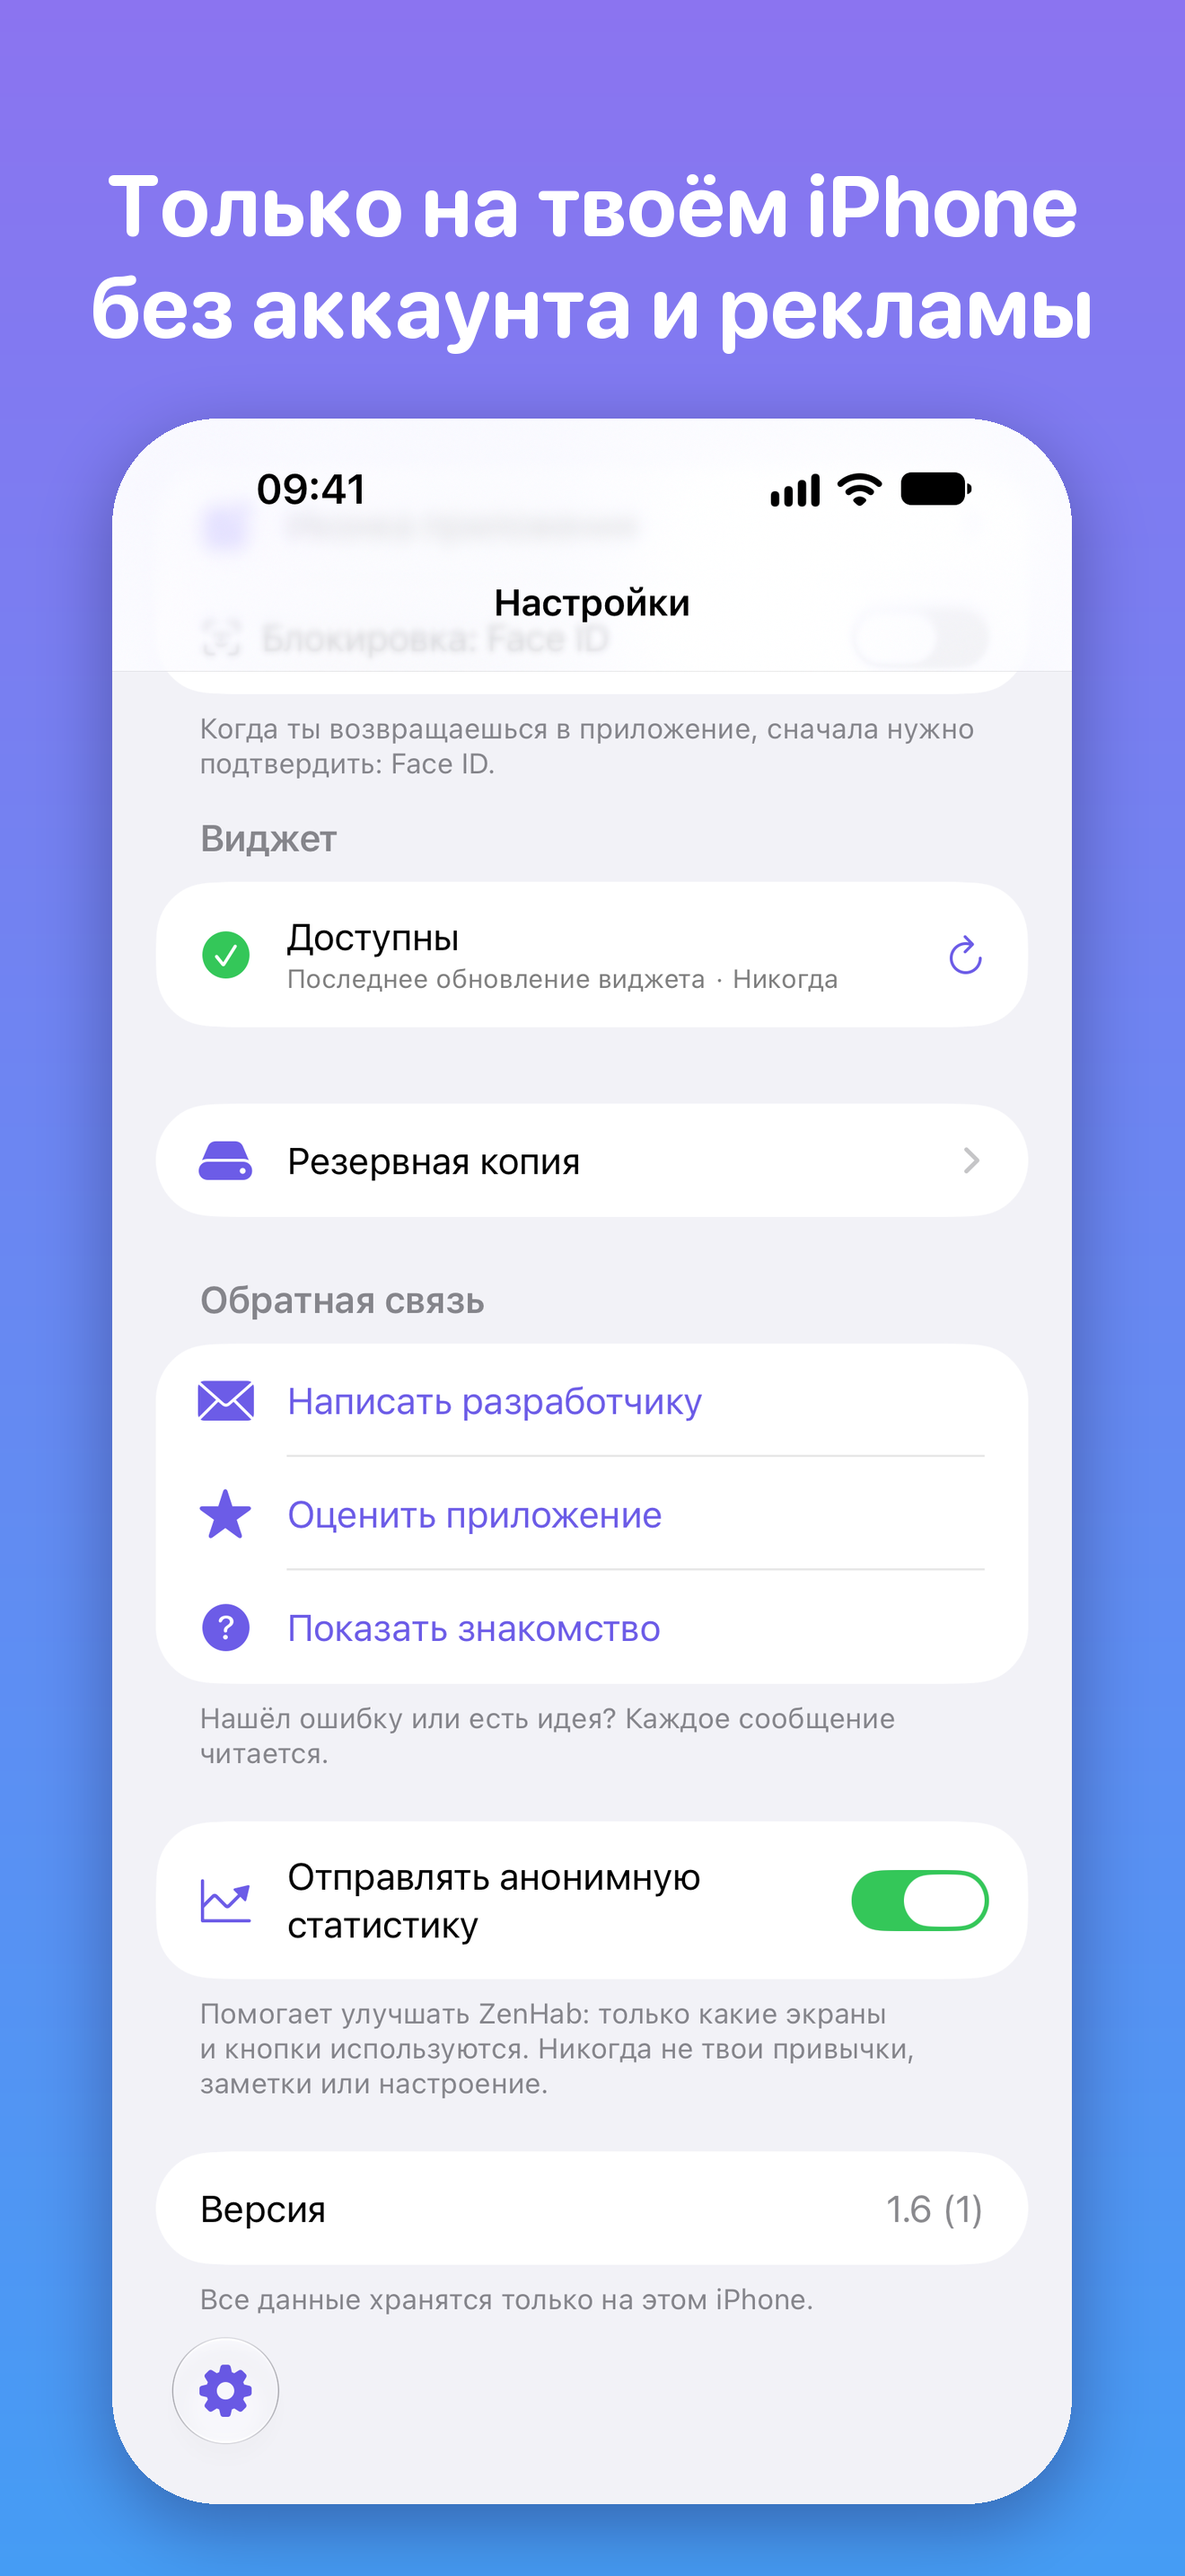
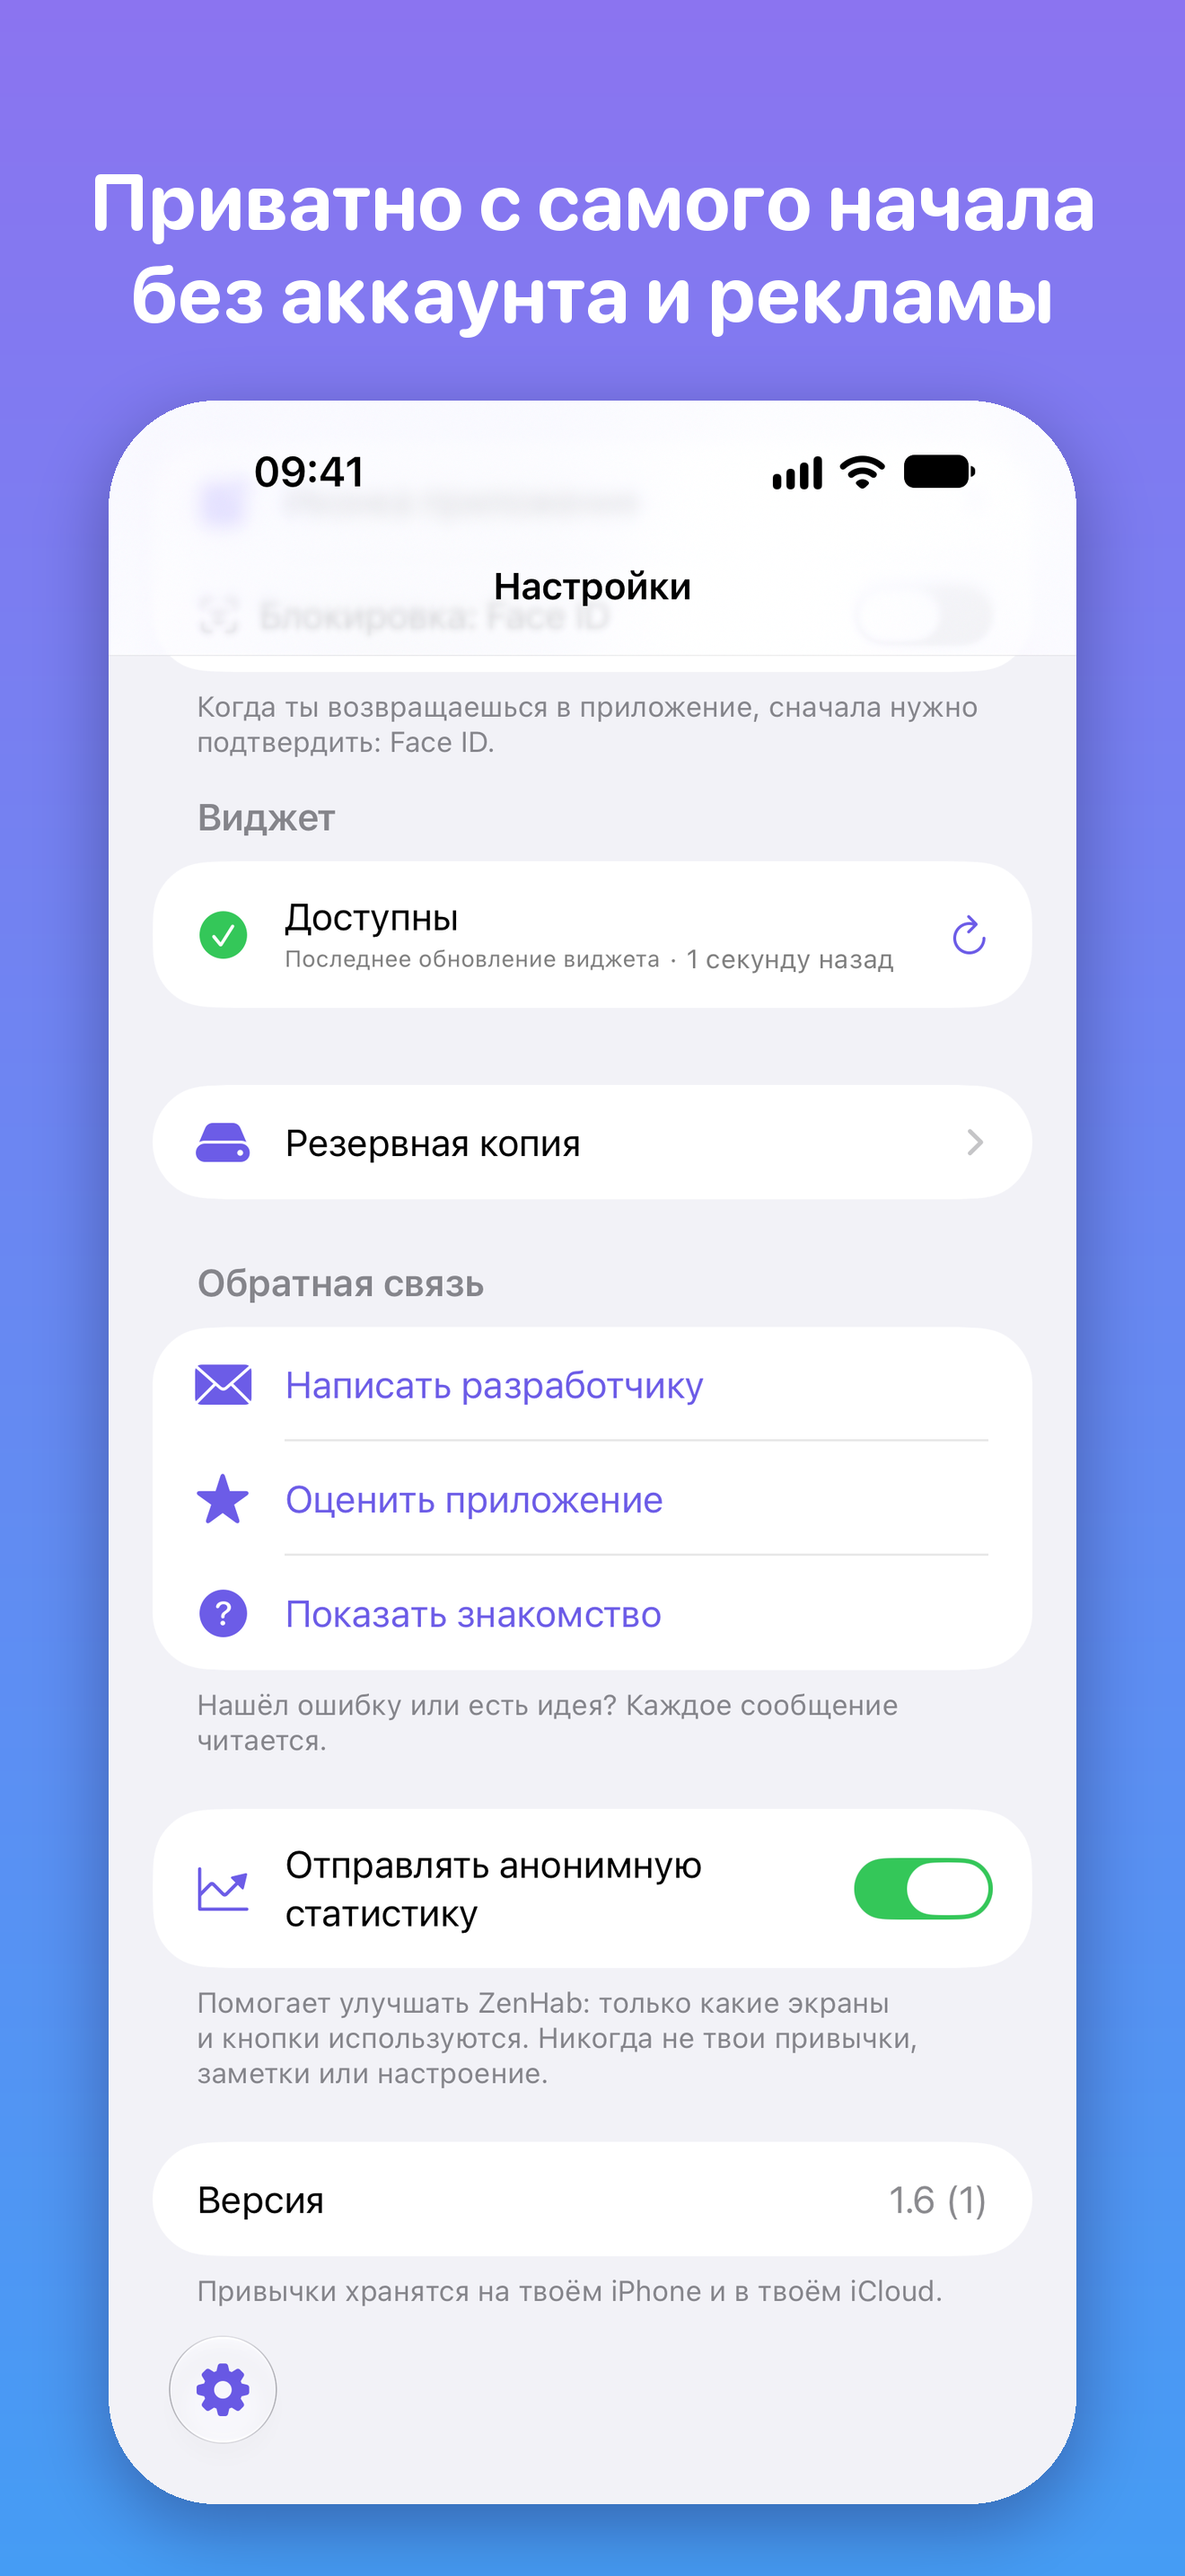
App Store screenshot 08: new storage text and ru caption (KAN-102, KAN-103)
Merge the KAN-103 storage-text fix and retake 08 (en-US, ru): the Settings
footer now says the habits stay on the iPhone and in your own iCloud. The ru
caption changes from «Только на твоём iPhone» to «Приватно с самого начала».

diff --git a/docs/appstore/screenshots/README.md b/docs/appstore/screenshots/README.md
@@ -25,7 +25,7 @@
 | 05 | Питомец | Подросший нарисованный питомец (стадия «Взрослый», «400 опыта») | A pet that grows with your habits / Питомец растёт вместе с привычками |
 | 06 | Каталог | Каталог готовых привычек | 50 ready-made habits in one tap / 50 готовых привычек в одно касание |
 | 07 | Слова | Карточка слова | Learn words in 14 languages / Слова на 14 языках |
-| 08 | Настройки | Низ настроек: выключатель «Отправлять анонимную статистику» (в сборке App Store он есть) и «Все данные хранятся только на этом iPhone» | Private by design / Только на твоём iPhone |
+| 08 | Настройки | Низ настроек: выключатель «Отправлять анонимную статистику» и подпись «Привычки хранятся на твоём iPhone и в твоём iCloud» (оба есть только в сборке App Store) | Private by design / Приватно с самого начала |
 | 09 | Итоги месяца | Карточка «Мой месяц» с процентом, днями и лучшей серией | Your month and year in review / Итоги месяца и года |
 
 Порядок важен: первые 3 скриншота видны в поиске App Store без открытия страницы.
@@ -44,6 +44,9 @@
 отметками за сегодня и подросшим питомцем. 02 — настоящее уведомление (`xcrun simctl push`) на экране Домой
 с виджетами, долгое нажатие показывает «Готово» / «Пропустить»; снизу кадр обрезан, потому что симулятор
 показывает поверх клавиатуру. 04 — виджеты ZenHab (средний и маленький), добавленные на экран Домой.
+08 — отладочная сборка с подписью ad-hoc (виджет «Доступны»), в которой на время съёмки условия
+`Analytics.isAvailable` и `CloudBackup.isAvailable` в `SettingsView` заменены на `true`: с `-uitest` они
+выключены, а в сборке App Store включены. Эта правка в репозиторий не попадает.
 
 Подписи для других языков можно добавить колонкой в `captions.tsv` (код языка в заголовке).
 
